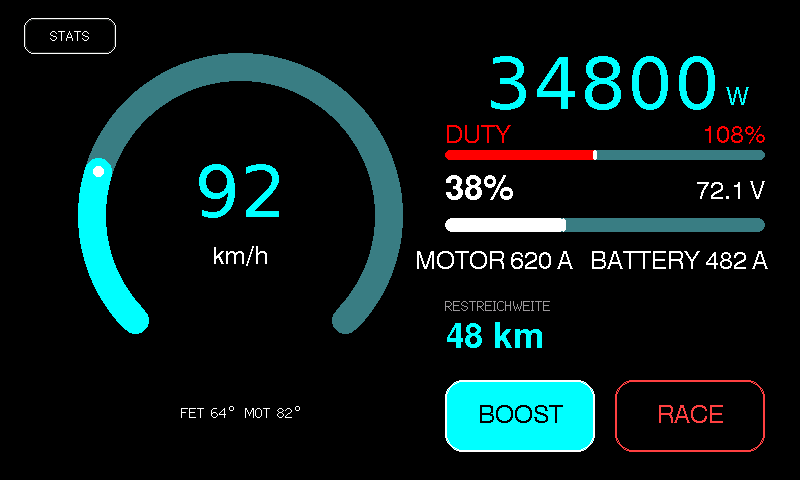
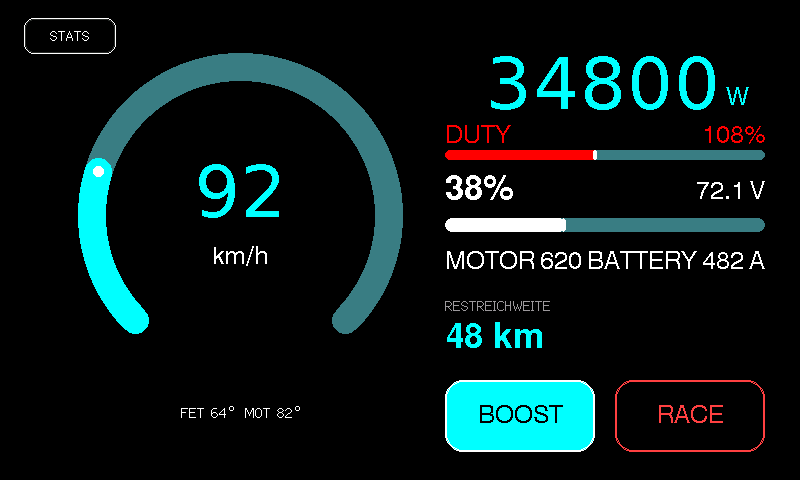
fix(ui): align MOTOR and BATTERY current readouts to 445px grid

Changed region(s): [[0.5, 0.5, 0.9688, 0.5625]]

diff --git a/src/dash_renderer.cpp b/src/dash_renderer.cpp
@@ -605,19 +605,19 @@ void DashboardRenderer::renderHyper35kwStyle(const DashTelemetry &telemetry) {
         }
 
         // Currents
-        _canvas->fillRect(410, 246, 368, 34, COLOR_BG);
+        _canvas->fillRect(435, 246, 345, 34, COLOR_BG);
         _canvas->setFont(&fonts::Font4);
         _canvas->setTextSize(1);
         _canvas->setTextColor(COLOR_WHITE, COLOR_BG);
         _canvas->setTextDatum(textdatum_t::top_left);
         char motBuf[32];
         snprintf(motBuf, sizeof(motBuf), "MOTOR %.0f A", telemetry.phase_amps);
-        _canvas->drawString(motBuf, 415, 250);
+        _canvas->drawString(motBuf, 445, 250);
 
         _canvas->setTextDatum(textdatum_t::top_right);
         char bBuf[32];
         snprintf(bBuf, sizeof(bBuf), "BATTERY %.0f A", telemetry.current_amps);
-        _canvas->drawString(bBuf, 768, 250);
+        _canvas->drawString(bBuf, 765, 250);
     }
 
     // 9b. Dynamic Range Readout (Open minimalist layout without card container)
